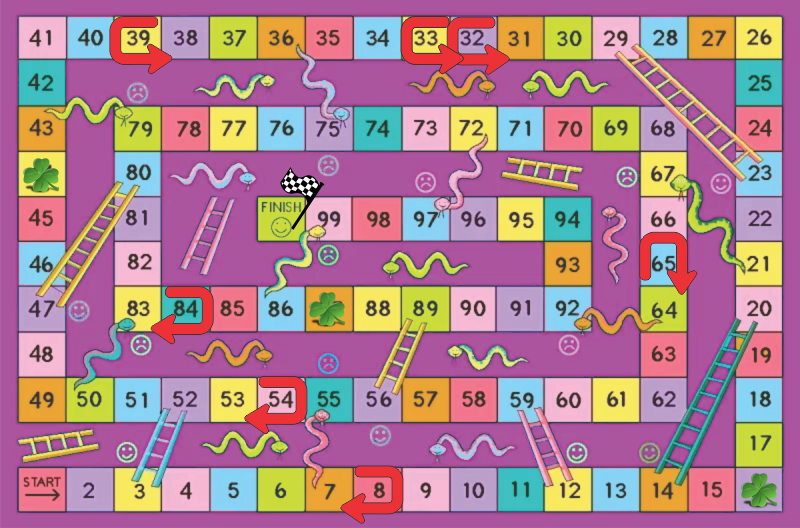
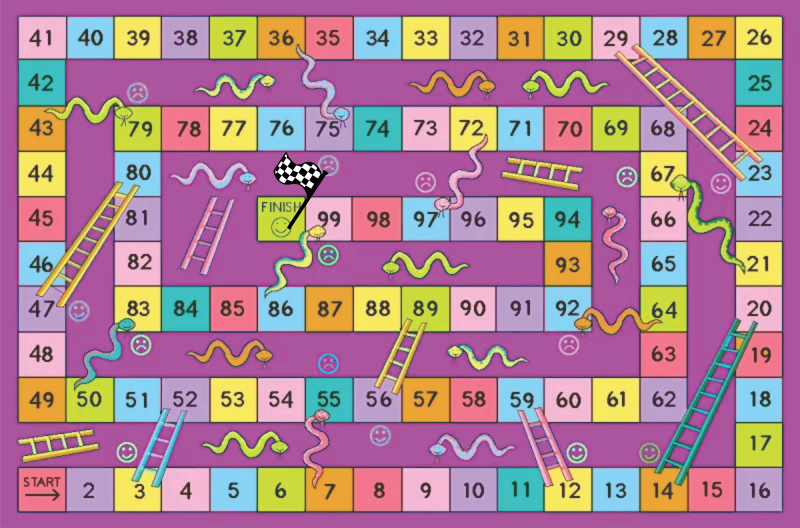
Add files via upload
Trabalho Concluído!

diff --git a/src/view/PovoarCasasTabuleiro.java b/src/view/PovoarCasasTabuleiro.java
@@ -1,7 +1,6 @@
 package view;
 
 import java.awt.Point;
-
 import controladores.ControleCasas;
 import fabrica.FabricaCasaTabuleiro;
 
@@ -9,14 +8,15 @@ public class PovoarCasasTabuleiro {
 
 		public PovoarCasasTabuleiro() {
 			FabricaCasaTabuleiro fabricaCasas = new FabricaCasaTabuleiro();
+			
 			ControleCasas.getInstance().addCasa(fabricaCasas.criar(1, "N", new Point(41, 475)));
 			ControleCasas.getInstance().addCasa(fabricaCasas.criar(2, "N", new Point(88, 475)));
 			ControleCasas.getInstance().addCasa(fabricaCasas.criar(3, "S", new Point(139, 475), 52));
 			ControleCasas.getInstance().addCasa(fabricaCasas.criar(4, "N", new Point(186, 475)));
-			ControleCasas.getInstance().addCasa(fabricaCasas.criar(5, "N", new Point(235, 475)));
+			ControleCasas.getInstance().addCasa(fabricaCasas.criar(5, "E", new Point(235, 475)));
 			ControleCasas.getInstance().addCasa(fabricaCasas.criar(6, "N", new Point(279, 475)));
 			ControleCasas.getInstance().addCasa(fabricaCasas.criar(7, "N", new Point(327, 475)));
-			ControleCasas.getInstance().addCasa(fabricaCasas.criar(8, "A", new Point(379, 475)));
+			ControleCasas.getInstance().addCasa(fabricaCasas.criar(8, "E", new Point(379, 475)));
 			ControleCasas.getInstance().addCasa(fabricaCasas.criar(9, "N", new Point(426, 475)));
 			ControleCasas.getInstance().addCasa(fabricaCasas.criar(10, "N", new Point(472, 475)));
 			ControleCasas.getInstance().addCasa(fabricaCasas.criar(11, "N", new Point(521, 475)));
@@ -24,7 +24,7 @@ public class PovoarCasasTabuleiro {
 			ControleCasas.getInstance().addCasa(fabricaCasas.criar(13, "N", new Point(615, 475)));
 			ControleCasas.getInstance().addCasa(fabricaCasas.criar(14, "S", new Point(665, 475), 20));
 			ControleCasas.getInstance().addCasa(fabricaCasas.criar(15, "N", new Point(713, 475)));
-			ControleCasas.getInstance().addCasa(fabricaCasas.criar(16, "E", new Point(760, 475), 19));
+			ControleCasas.getInstance().addCasa(fabricaCasas.criar(16, "N", new Point(760, 475)));
 			ControleCasas.getInstance().addCasa(fabricaCasas.criar(17, "N", new Point(760, 430)));
 			ControleCasas.getInstance().addCasa(fabricaCasas.criar(18, "N", new Point(760, 390)));
 			ControleCasas.getInstance().addCasa(fabricaCasas.criar(19, "N", new Point(760, 342)));
@@ -40,40 +40,40 @@ public class PovoarCasasTabuleiro {
 			ControleCasas.getInstance().addCasa(fabricaCasas.criar(29, "N", new Point(615, 24)));
 			ControleCasas.getInstance().addCasa(fabricaCasas.criar(30, "N", new Point(568, 24)));
 			ControleCasas.getInstance().addCasa(fabricaCasas.criar(31, "N", new Point(520, 24)));
-			ControleCasas.getInstance().addCasa(fabricaCasas.criar(32, "A", new Point(472, 24)));
-			ControleCasas.getInstance().addCasa(fabricaCasas.criar(33, "A", new Point(425, 24)));
-			ControleCasas.getInstance().addCasa(fabricaCasas.criar(34, "N", new Point(377, 24)));
+			ControleCasas.getInstance().addCasa(fabricaCasas.criar(32, "N", new Point(472, 24)));
+			ControleCasas.getInstance().addCasa(fabricaCasas.criar(33, "E", new Point(425, 24)));
+			ControleCasas.getInstance().addCasa(fabricaCasas.criar(34, "E", new Point(377, 24)));
 			ControleCasas.getInstance().addCasa(fabricaCasas.criar(35, "N", new Point(327, 24)));
 			ControleCasas.getInstance().addCasa(fabricaCasas.criar(36, "N", new Point(280, 24)));
 			ControleCasas.getInstance().addCasa(fabricaCasas.criar(37, "N", new Point(231, 24)));
 			ControleCasas.getInstance().addCasa(fabricaCasas.criar(38, "N", new Point(183, 24)));
-			ControleCasas.getInstance().addCasa(fabricaCasas.criar(39, "A", new Point(137, 24)));
+			ControleCasas.getInstance().addCasa(fabricaCasas.criar(39, "N", new Point(137, 24)));
 			ControleCasas.getInstance().addCasa(fabricaCasas.criar(40, "N", new Point(89, 24)));
 			ControleCasas.getInstance().addCasa(fabricaCasas.criar(41, "N", new Point(42, 24)));
 			ControleCasas.getInstance().addCasa(fabricaCasas.criar(42, "N", new Point(42, 70)));
 			ControleCasas.getInstance().addCasa(fabricaCasas.criar(43, "N", new Point(42, 115)));
-			ControleCasas.getInstance().addCasa(fabricaCasas.criar(44, "E", new Point(42, 160), 47));
+			ControleCasas.getInstance().addCasa(fabricaCasas.criar(44, "N", new Point(42, 160)));
 			ControleCasas.getInstance().addCasa(fabricaCasas.criar(45, "N", new Point(42, 203)));
 			ControleCasas.getInstance().addCasa(fabricaCasas.criar(46, "N", new Point(42, 251)));
 			ControleCasas.getInstance().addCasa(fabricaCasas.criar(47, "S", new Point(42, 294), 80));
 			ControleCasas.getInstance().addCasa(fabricaCasas.criar(48, "N", new Point(42, 342)));
 			ControleCasas.getInstance().addCasa(fabricaCasas.criar(49, "N", new Point(42, 386)));
 			ControleCasas.getInstance().addCasa(fabricaCasas.criar(50, "N", new Point(89, 386)));
-			ControleCasas.getInstance().addCasa(fabricaCasas.criar(51, "N", new Point(137, 386)));
+			ControleCasas.getInstance().addCasa(fabricaCasas.criar(51, "E", new Point(137, 386)));
 			ControleCasas.getInstance().addCasa(fabricaCasas.criar(52, "N", new Point(183, 386)));
 			ControleCasas.getInstance().addCasa(fabricaCasas.criar(53, "N", new Point(232, 386)));
-			ControleCasas.getInstance().addCasa(fabricaCasas.criar(54, "A", new Point(278, 386)));
+			ControleCasas.getInstance().addCasa(fabricaCasas.criar(54, "N", new Point(278, 386)));
 			ControleCasas.getInstance().addCasa(fabricaCasas.criar(55, "M", new Point(328, 386), 7));
 			ControleCasas.getInstance().addCasa(fabricaCasas.criar(56, "S", new Point(375, 386), 89));
 			ControleCasas.getInstance().addCasa(fabricaCasas.criar(57, "N", new Point(424, 386)));
 			ControleCasas.getInstance().addCasa(fabricaCasas.criar(58, "N", new Point(473, 386)));
 			ControleCasas.getInstance().addCasa(fabricaCasas.criar(59, "N", new Point(520, 386)));
-			ControleCasas.getInstance().addCasa(fabricaCasas.criar(60, "N", new Point(566, 386)));
+			ControleCasas.getInstance().addCasa(fabricaCasas.criar(60, "E", new Point(566, 386)));
 			ControleCasas.getInstance().addCasa(fabricaCasas.criar(61, "N", new Point(615, 386)));
 			ControleCasas.getInstance().addCasa(fabricaCasas.criar(62, "N", new Point(662, 386)));
 			ControleCasas.getInstance().addCasa(fabricaCasas.criar(63, "N", new Point(662, 342)));
 			ControleCasas.getInstance().addCasa(fabricaCasas.criar(64, "N", new Point(662, 295)));
-			ControleCasas.getInstance().addCasa(fabricaCasas.criar(65, "A", new Point(662, 251)));
+			ControleCasas.getInstance().addCasa(fabricaCasas.criar(65, "N", new Point(662, 251)));
 			ControleCasas.getInstance().addCasa(fabricaCasas.criar(66, "N", new Point(662, 207)));
 			ControleCasas.getInstance().addCasa(fabricaCasas.criar(67, "M", new Point(662, 162), 21));
 			ControleCasas.getInstance().addCasa(fabricaCasas.criar(68, "N", new Point(662, 115)));
@@ -92,10 +92,10 @@ public class PovoarCasasTabuleiro {
 			ControleCasas.getInstance().addCasa(fabricaCasas.criar(81, "N", new Point(136, 207)));
 			ControleCasas.getInstance().addCasa(fabricaCasas.criar(82, "N", new Point(136, 251)));
 			ControleCasas.getInstance().addCasa(fabricaCasas.criar(83, "M", new Point(136, 293), 50));
-			ControleCasas.getInstance().addCasa(fabricaCasas.criar(84, "A", new Point(183, 293)));
+			ControleCasas.getInstance().addCasa(fabricaCasas.criar(84, "N", new Point(183, 293)));
 			ControleCasas.getInstance().addCasa(fabricaCasas.criar(85, "N", new Point(231, 293)));
 			ControleCasas.getInstance().addCasa(fabricaCasas.criar(86, "N", new Point(281, 293)));
-			ControleCasas.getInstance().addCasa(fabricaCasas.criar(87, "E", new Point(328, 293), 90));
+			ControleCasas.getInstance().addCasa(fabricaCasas.criar(87, "E", new Point(328, 293)));
 			ControleCasas.getInstance().addCasa(fabricaCasas.criar(88, "N", new Point(378, 293)));
 			ControleCasas.getInstance().addCasa(fabricaCasas.criar(89, "N", new Point(424, 293)));
 			ControleCasas.getInstance().addCasa(fabricaCasas.criar(90, "N", new Point(470, 293)));
@@ -110,5 +110,5 @@ public class PovoarCasasTabuleiro {
 			ControleCasas.getInstance().addCasa(fabricaCasas.criar(99, "M", new Point(329, 205), 86));
 			ControleCasas.getInstance().addCasa(fabricaCasas.criar(100, "F", new Point(280, 209)));		
 		}
-
+		
 }

diff --git a/src/view/PovoarCartasTabuleiro.java b/src/view/PovoarCartasTabuleiro.java
@@ -7,17 +7,13 @@ public class PovoarCartasTabuleiro {
 
 	public PovoarCartasTabuleiro() {
 		FabricaCartasTabuleiro fabricaCartas = new FabricaCartasTabuleiro();
-		
-		//DAOCartas.getInstance().addCarta(fabricaCartas.criar("S", 8, "Casa da Sorte!! Avance 8 casas! "));
-		DAOCartas.getInstance().addCarta(fabricaCartas.criar("S", 4, "Casa da Sorte!! Avance 4 casas! "));
-		//DAOCartas.getInstance().addCarta(fabricaCartas.criar("S", 10, "Casa da Sorte!! Avance 10 casas! "));
-		DAOCartas.getInstance().addCarta(fabricaCartas.criar("S", 7, "Casa da Sorte!! Avance 7 casas! "));
-		DAOCartas.getInstance().addCarta(fabricaCartas.criar("A", 5, "Deu Azar, ein!! Volte 5 casas! "));
-		//DAOCartas.getInstance().addCarta(fabricaCartas.criar("A", 8, "Deu Azar, ein!! Volte 8 casas! "));
-		//DAOCartas.getInstance().addCarta(fabricaCartas.criar("A", 10, "Deu Azar, ein!! Volte 10 casas! "));
+
+		DAOCartas.getInstance().addCarta(fabricaCartas.criar("S", 3, "Casa da Sorte!! Avance 3 casas! "));
+		DAOCartas.getInstance().addCarta(fabricaCartas.criar("S", 2, "Casa da Sorte!! Avance 2 casas! "));
+		DAOCartas.getInstance().addCarta(fabricaCartas.criar("S", 1, "Casa da Sorte!! Avance 1 casas! "));
+		DAOCartas.getInstance().addCarta(fabricaCartas.criar("A", 2, "Deu Azar, ein!! Volte 2 casas! "));
+		DAOCartas.getInstance().addCarta(fabricaCartas.criar("A", 1, "Deu Azar, ein!! Volte 1 casas! "));
 		DAOCartas.getInstance().addCarta(fabricaCartas.criar("A", 3, "Deu Azar, ein!! Volte 3 casas! "));
-		DAOCartas.getInstance().addCarta(fabricaCartas.criar("A", 20, "Deu Azar, ein!! Volte 20 casas! "));
 	}
-	
 	
 }

diff --git a/src/view/View.java b/src/view/View.java
@@ -1,7 +1,5 @@
 package view;
 
-//commit 01122019
-//01
 import javax.swing.JOptionPane;
 import Jplay.src.jplay.GameImage;
 import Jplay.src.jplay.Keyboard;
@@ -27,8 +25,7 @@ public class View {
 		this.janela = new Window(800, 528);
 		teclado = janela.getKeyboard();
 		setJogadorAtual(ControleJogador.getInstance().getJogador(0));
-		run();
-		
+		run();	
 	}
 
 	public void run() {
@@ -41,18 +38,10 @@ public class View {
 			for(int i = 0; i < qtdJogador; i++) {
 				ControleJogador.getInstance().getJogador(i).getPino().draw();
 			}
-			
-			/*
-				ControleJogador.getInstance().getJogador1().getPino().draw();
-				ControleJogador.getInstance().getJogador2().getPino().draw();
-				ControleJogador.getInstance().getJogador3().getPino().draw();
-				ControleJogador.getInstance().getJogador4().getPino().draw();
-			*/
-			
 
 			updateJanela();
 			ControleJogo.getInstance().proximaRodada(jogador);
-			
+	
 			desenhaDado();
 			updateJanela();
 			
@@ -102,8 +91,5 @@ public class View {
 	public void setJogadorAtual(Jogador jogadorAtual) {
 		this.jogadorAtual = jogadorAtual;
 	}
-
-	public void setQtdJogador(int qtdJogador) {
-		this.qtdJogador = qtdJogador;
-	}
+	
 }

diff --git a/src/fabrica/FabricaCasaTabuleiro.java b/src/fabrica/FabricaCasaTabuleiro.java
@@ -1,9 +1,7 @@
 package fabrica;
 
 import java.awt.Point;
-
 import interfaces.IFabricaCasa;
-import model.casa.CasaArmadilha;
 import model.casa.CasaEspecial;
 import model.casa.CasaFinal;
 import model.casa.CasaMussum;
@@ -22,9 +20,7 @@ public class FabricaCasaTabuleiro implements IFabricaCasa<CasaTabuleiro> {
 			casa = new CasaSubida(i, p, valor);
 		} else if(tipo.equals("M")) {
 			casa = new CasaMussum(i, p, valor);
-		} else if(tipo.equals("E")) {
-				casa = new CasaEspecial(i, p, valor);
-		}
+		} 
 		return casa;
 	}
 
@@ -34,8 +30,8 @@ public class FabricaCasaTabuleiro implements IFabricaCasa<CasaTabuleiro> {
 			casa = new CasaNormal(i, p);
 		} else if(tipo.equals("F")) {
 			casa = new CasaFinal(i, p);
-		} else if(tipo.equals("A")){
-			casa = new CasaArmadilha(i, p);
+		} else if(tipo.equals("E")){
+			casa = new CasaEspecial(i, p);
 		}
 		return casa;
 	}

diff --git a/src/model/casa/CasaEspecial.java b/src/model/casa/CasaEspecial.java
@@ -1,22 +1,18 @@
 package model.casa;
 
 import java.awt.Point;
-
-import controladores.ControleCasas;
-import controladores.ControleJogo;
+import controladores.ControleCartas;
 import model.jogador.Jogador;
 
-public class CasaEspecial extends CasaComEfeito{
-
-
-	public CasaEspecial(int indice, Point coordenada, int destino) {
-		super(indice, coordenada, destino);
+public class CasaEspecial extends CasaTabuleiro {	
+	
+	public CasaEspecial(int indice, Point coordenada) {
+		super(indice, coordenada);
 	}
 
 	@Override
 	public void acao(Jogador jogador) {
-		jogador.setCasaAtual(ControleCasas.getInstance().getCasas().get(this.getDestino()));
-		ControleJogo.getInstance().Mensagem("casa da sorte!! Avance 3 casas");
+		ControleCartas.getInstance().proximaCarta().acao(jogador);
 	}
 
 }

diff --git a/src/fabrica/FabricaCartasTabuleiro.java b/src/fabrica/FabricaCartasTabuleiro.java
@@ -2,7 +2,7 @@ package fabrica;
 
 import interfaces.IFabricaCarta;
 import model.cartas.Carta;
-import model.cartas.CartaAzar;
+import model.cartas.CartaEspecial;
 import model.cartas.CartaSorte;
 
 public class FabricaCartasTabuleiro implements IFabricaCarta{
@@ -15,7 +15,7 @@ public class FabricaCartasTabuleiro implements IFabricaCarta{
 		if (tipo.equals("S")) {
 			carta = new CartaSorte(valor, descricao);
 		} else if (tipo.equals("A")) {
-			carta = new CartaAzar(valor, descricao);
+			carta = new CartaEspecial(valor, descricao);
 		}
 		return carta;
 	}	

diff --git a/src/controladores/ControleJogador.java b/src/controladores/ControleJogador.java
@@ -27,7 +27,6 @@ public class ControleJogador implements IteratorJogador {
 			jogador.setCasaAtual(ControleCasas.getInstance().getCasas().get(99));
 		} else
 			jogador.setCasaAtual(ControleCasas.getInstance().getCasas().get(destino));
-
 	}
 
 	public Jogador proximoJogador(Jogador jogador, int qtdJogadores) {
@@ -56,7 +55,6 @@ public class ControleJogador implements IteratorJogador {
 				return (Jogador) DAOJogador.getInstance().getJogadores().get(3);
 			else
 				return (Jogador) DAOJogador.getInstance().getJogadores().get(0);
-
 		}
 		return null;
 	}

diff --git a/src/model/cartas/CartaEspecial.java b/src/model/cartas/CartaEspecial.java
@@ -1,0 +1,21 @@
+package model.cartas;
+
+import controladores.ControleCasas;
+import controladores.ControleJogo;
+import model.jogador.Jogador;
+
+public class CartaEspecial extends Carta {
+
+	public CartaEspecial(int valor, String descricao) {
+		super(valor, descricao);
+	}
+
+	@Override
+	public void acao(Jogador jogador) {
+		int casaAtual = jogador.getCasaAtual().getIndice();
+		jogador.setCasaAtual(ControleCasas.getInstance().getCasas().get((casaAtual-1) - this.getValor()));
+		ControleJogo.getInstance().Mensagem(this.getDescricao());
+
+	}
+
+}

diff --git a/src/model/casa/CasaSubida.java b/src/model/casa/CasaSubida.java
@@ -1,13 +1,11 @@
 package model.casa;
 
 import java.awt.Point;
-
 import controladores.ControleCasas;
 import controladores.ControleJogo;
 import model.jogador.Jogador;
 
 public class CasaSubida extends CasaComEfeito{
-
 
 	public CasaSubida(int indice, Point coordenada, int destino) {
 		super(indice, coordenada, destino);

diff --git a/src/model/casa/CasaTabuleiro.java b/src/model/casa/CasaTabuleiro.java
@@ -1,7 +1,6 @@
 package model.casa;
 
 import java.awt.Point;
-
 import interfaces.IEfeito;
 
 public abstract class CasaTabuleiro implements IEfeito{
@@ -21,6 +20,5 @@ public abstract class CasaTabuleiro implements IEfeito{
 	public Point getCoordenada() {
 		return coordenada;
 	}
-
 	
 }
